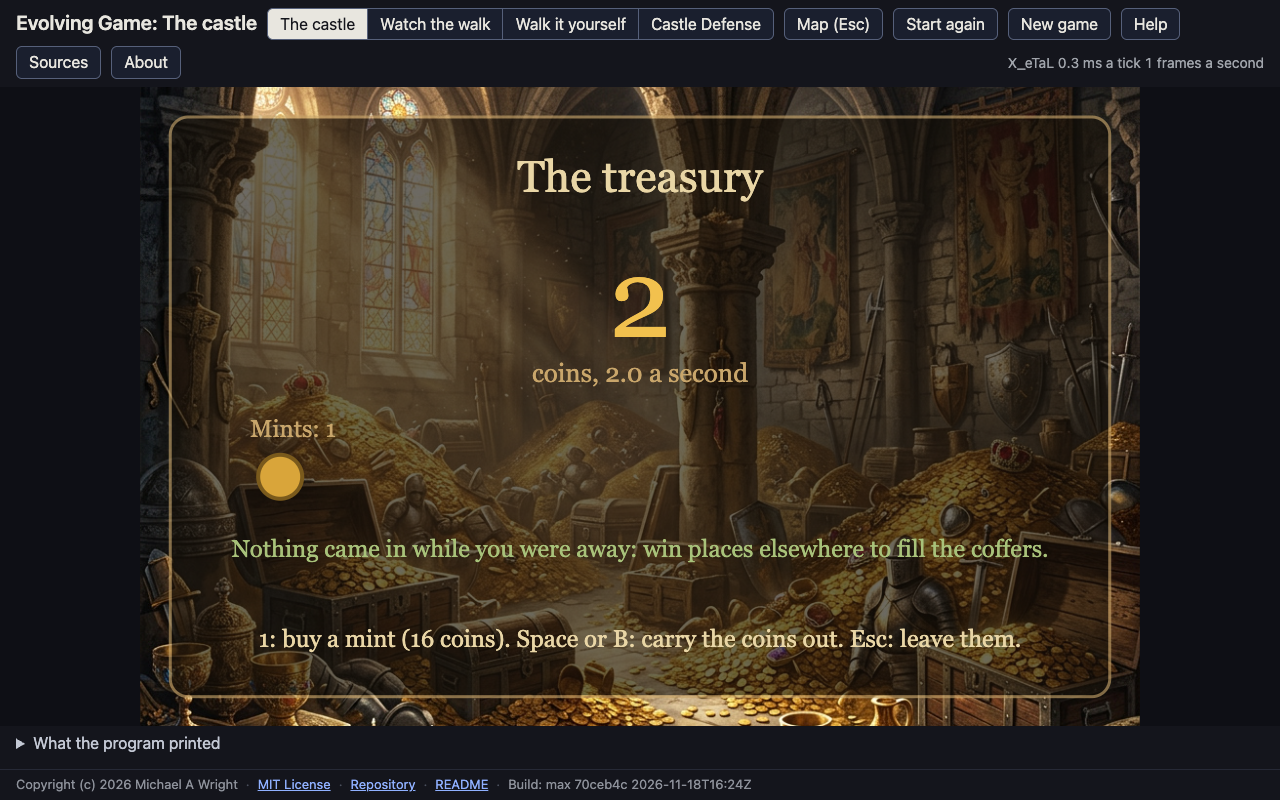
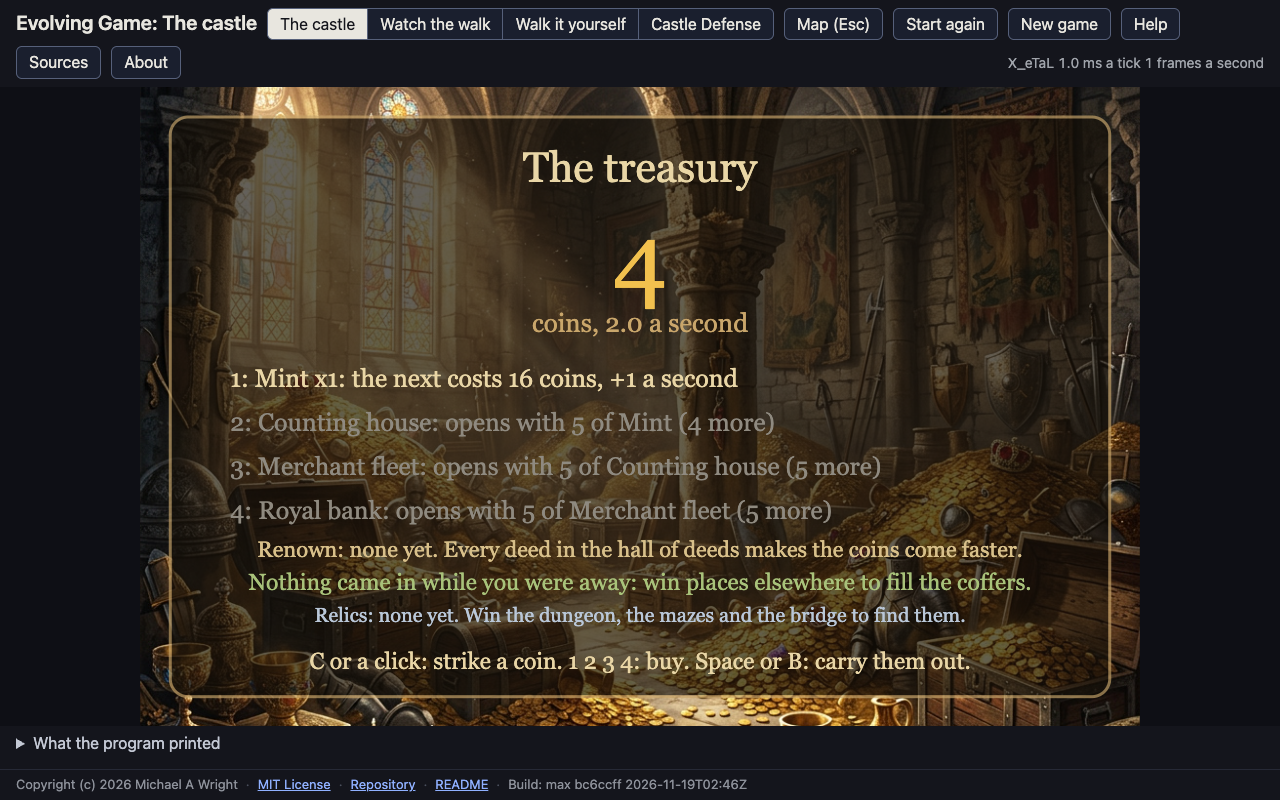
feat: the treasury grows: a ladder to buy, coins by hand, renown, relics
The user asked how to get the next thing to buy (there was only the
mint), then what else from Cookie Clicker the treasury could have, and
agreed the order proposed.

- games/castle/treasury.toml, Hoard.xtl: a ladder of things to buy,
  as data: a mint, a counting house (opens at five mints), a merchant
  fleet (five counting houses), a royal bank (five fleets; doubles
  everything); each next one dearer. What is owned is kept in the
  world (idle.1 ...; idle.mints from before counts as mints). Each line
  says what the next costs and brings, or what opens it.
- C, or a click, strikes a coin by hand.
- Renown: every deed in the hall of deeds makes the coins come faster
  (2 in a hundred each).
- Relics found in the other games, as data: the dungeon's hoard (things
  cost 9 in 10), the gate maze's map (a tenth faster), the bridge toll
  (twice the coins waiting), the second maze's key (five coins a
  strike).
- scripts/test-games.sh: a run that failed is never blessed (it wrote
  an empty golden once in this work).

Goldens: games/castle/expected/castle.out (the ladder's gate and a
counting house bought, strikes, renown, relics). The browser test
strikes coins and reads the renown and relic lines; the capture was
looked at.

Changed region(s): [[0.1875, 0.2812, 0.8125, 0.8438], [0.4062, 0.1875, 0.5938, 0.25], [0.4375, 0.9688, 0.5938, 1.0]]

diff --git a/docs/plan.md b/docs/plan.md
@@ -946,6 +946,16 @@ The framework (`games/castle`, Saga 3's castle-map step):
   are kept in the world. "While you play elsewhere" is counted in
   places won since the last visit (time enters only as ticks, D6), not
   in hours away.
+- **The treasury as an idle game** (the user, 2026-11-18, asking what
+  else from Cookie Clicker could be had, then "y, go" to the order
+  proposed): a ladder of things to buy (mint, counting house, merchant
+  fleet, royal bank, each opening at five of the one before), coins
+  struck by hand, renown (every deed makes the coins come faster),
+  relics found in the other games (each better at one thing: cost,
+  rate, the coins waiting, a strike). Still to come, in that order:
+  upgrades and a golden coin (chance from the seed, lib/Rng), then
+  prestige (give up the treasury for a lasting multiplier). All of it
+  is data in `games/castle/treasury.toml`.
 - **The look wanted, a second reference** (the user, 2026-11-17: "for
   example of the kind of improved graphics I want the game to have"):
   a painted bazaar below a castle (`docs/images/block-castle-bazaar.jpg`;

diff --git a/games/castle/README.md b/games/castle/README.md
@@ -65,9 +65,14 @@ the next. This is the game the others are parts of.
   (the scenario `../walk/crossing.toml`).
 
 - **The treasury.** An idle game ([`Hoard.xtl`](Hoard.xtl), `idle`,
-  [`treasury.toml`](treasury.toml)): coins come in by the second, 1
-  buys a mint to make them come faster, space or B carries them out as
-  gold. Places won elsewhere since your last visit leave coins
+  [`treasury.toml`](treasury.toml)): coins come in by the second;
+  1 2 3 4 buy a mint, a counting house, a merchant fleet and a royal
+  bank, each opening when you own five of the one before; space or B
+  carries the coins out as gold. C, or a click, strikes a coin by hand.
+  Every deed in the hall of deeds is renown (the coins come faster), and
+  relics found in the dungeon, the mazes and at the bridge each make one
+  thing better: what things cost, the rate, what waits for you, or a
+  strike. Places won elsewhere since your last visit leave coins
   waiting. Its picture lies over the treasury painting.
 
 [`Venues.xtl`](Venues.xtl) reads the venues for the others.
